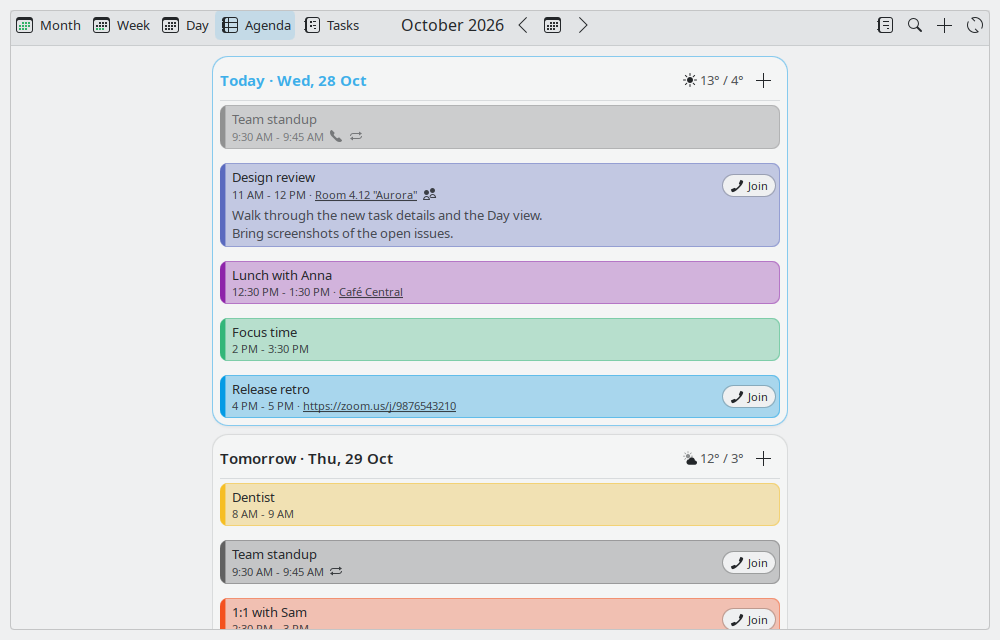
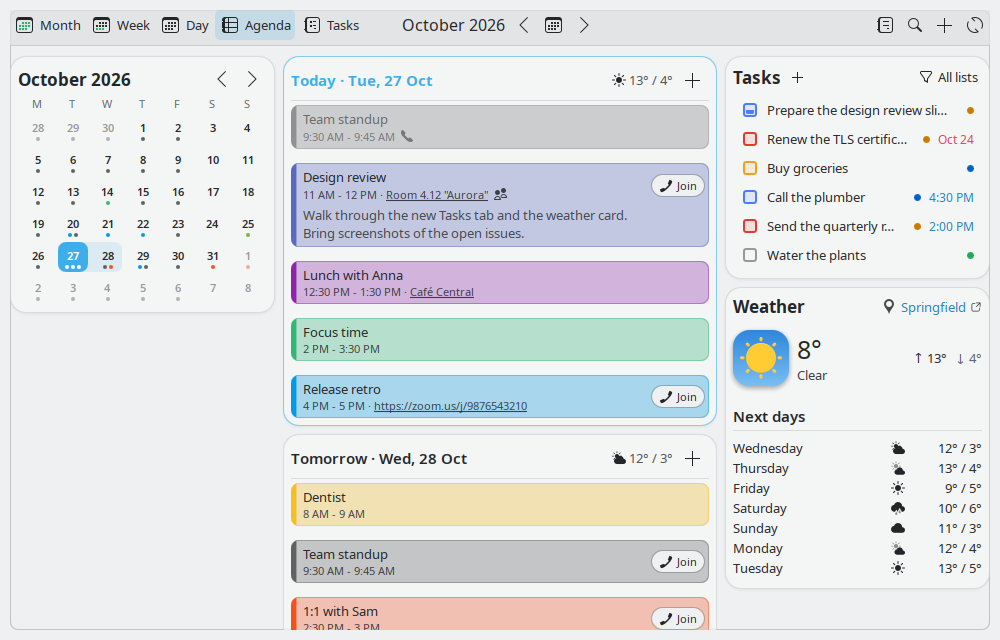
Docs: an animation of the widget in use at the top of the README, new screenshots (folded); the spin box's day unit follows the number
The animation and screenshots are rendered from mock data.

diff --git a/package/contents/ui/lib/FormConfigSpin.qml b/package/contents/ui/lib/FormConfigSpin.qml
@@ -8,6 +8,8 @@ FormCard.FormSpinBoxDelegate {
 	id: control
 	property string configKey
 	property string suffix: ""
+	// A unit that changes with the number (1 day, 2 days): unitFor(value) -> its text, instead of suffix.
+	property var unitFor: null
 	property var configBridge: null
 	// A line under the label (eg: "0 = off"). FormSpinBoxDelegate has a description only in newer
 	// Kirigami Addons (not 1.7, Debian 13): set when it's there, else left out, since assigning an
@@ -22,7 +24,7 @@ FormCard.FormSpinBoxDelegate {
 
 	value: configKey && configBridge ? (configBridge.read(configKey, 0) || 0) : 0
 	textFromValue: function(value, locale) {
-		return Number(value).toLocaleString(locale, 'f', 0) + control.suffix
+		return Number(value).toLocaleString(locale, 'f', 0) + (control.unitFor ? " " + control.unitFor(value) : control.suffix)
 	}
 	valueFromText: function(text, locale) {
 		// The number alone (a suffix may change with it: 1 day, 2 days).

diff --git a/package/contents/ui/config/ConfigViews.qml b/package/contents/ui/config/ConfigViews.qml
@@ -339,7 +339,7 @@ ConfigPage {
 				hint: i18n("The days after the shown one; later ones under \"Show more\"")
 				configKey: 'dayUpNextDays'
 				// The unit as the number asks for it (1 day, 2 days; in Polish 1 dzień, 2 dni, 5 dni).
-				suffix: " " + i18ncp("number of days, after the number", "day", "days", value)
+				unitFor: function(n) { return i18ncp("number of days, after the number", "day", "days", n) }
 				from: 1
 				to: 30
 			}

diff --git a/ReadMe.md b/ReadMe.md
@@ -7,7 +7,7 @@
 Plasma panel: see what's next at a glance, join a call in one click, and never miss a meeting
 again.
 
-![Day view](docs/screenshots/today.png)
+![Using the widget: Day, Week, Month and Agenda views, paging, event details and the Tasks tab](docs/demo.gif)
 
 ### Why you'll like it
 
@@ -103,14 +103,19 @@ It keeps the same widget id, so it replaces an existing Event Calendar and keeps
 
 ## Screenshots
 
-All shots use mock data.
+All shots (and the animation above) use mock data.
+
+<details>
+<summary><b>Each view and the settings</b></summary>
 
 | | |
 |---|---|
 | ![Month view](docs/screenshots/month.png) **Month**: event titles in the days | ![Week view](docs/screenshots/week.png) **Week**: hour grid, all-day events, weather |
 | ![Day view](docs/screenshots/today.png) **Day**: a small month, Up next, the hours, tasks and weather | ![Tasks](docs/screenshots/tasks.png) **Tasks**: smart filters, priorities, in progress |
-| ![Agenda](docs/screenshots/agenda.png) **Agenda**: each day a card | ![Event details](docs/screenshots/event-details.png) **Event details**: location, guests, Join |
+| ![Agenda](docs/screenshots/agenda.png) **Agenda**: each day a card, the small month, tasks and weather beside | ![Event details](docs/screenshots/event-details.png) **Event details**: location, guests, Join |
 | ![Google Calendar settings](docs/screenshots/settings-google.png) **Settings**: accounts and calendars | ![View settings](docs/screenshots/settings-views.png) **Settings**: views and appearance |
+
+</details>
 
 ## Install
 
